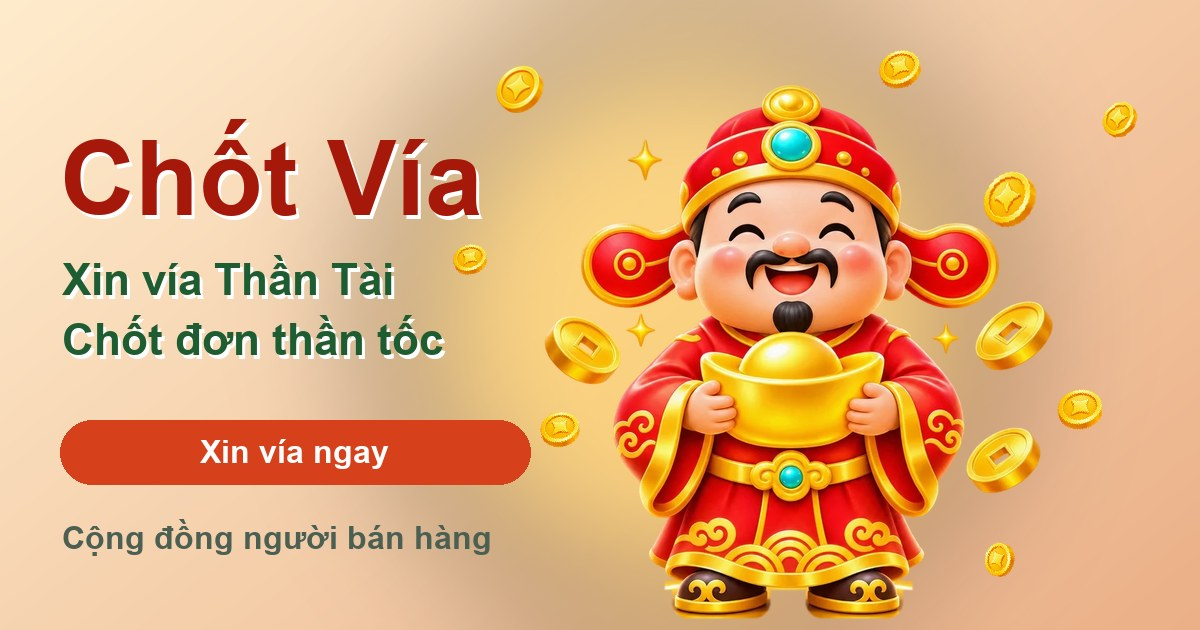
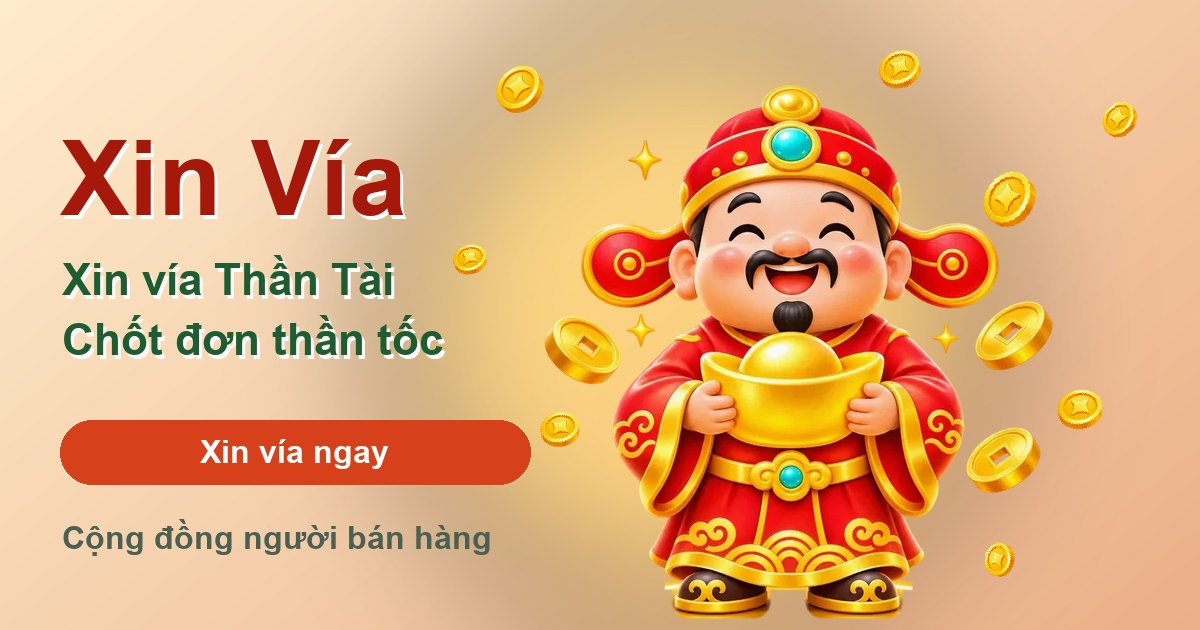
feat(brand): đổi tên hiển thị Chốt Vía thành Xin Vía (giao diện, chữ, thẻ chia sẻ, ảnh xem trước, tài liệu, dữ liệu mẫu và dữ liệu đã có khi deploy); giữ nguyên tên gói, thư mục, tên miền, nội dung SMS

Changed region(s): [[0.0308, 0.181, 0.4008, 0.3619]]

diff --git a/apps/backend/src/database/seed-demo-content.ts b/apps/backend/src/database/seed-demo-content.ts
@@ -25,12 +25,12 @@ const USERS: DemoUser[] = [
   { name: 'Nhà Hàng Sông Xanh', role: 'owner', job: 'Chủ quán', province: 'Cần Thơ', avatar: '/images/av-04.webp' },
   { name: 'Đức Hoàng', role: 'sale', job: 'Sale', province: 'Hà Nội', avatar: '/images/av-07.webp' },
   { name: 'Tiến Nguyễn', role: 'owner', job: 'Chủ cửa hàng', province: 'Đà Nẵng', avatar: '/images/av-10.webp' },
-  { name: 'Chốt Vía', role: null, job: null, province: 'Hà Nội', avatar: '/images/logo-than-tai.webp' },
+  { name: 'Xin Vía', role: null, job: null, province: 'Hà Nội', avatar: '/images/logo-than-tai.webp' },
 ];
 
 const POSTS: DemoPost[] = [
   { author: 'Lan Anh', type: 'story', metric: null, body: 'Chạy KPI cuối năm mà khách cứ hỏi giá, haizzz… Xin vía chốt đơn ạ! 🙏', hashtags: ['kekho'], image: { url: '/images/bai-ke-kho.webp', w: 1000, h: 750 }, pinned: true, hoursAgo: 2.05, reactions: 326, comments: 89, shares: 0 },
-  { author: 'Tuấn Anh', type: 'achievement', metric: 'revenue', body: 'Hôm nay quán cafe đạt 15.8 triệu! Cảm ơn cộng đồng Chốt Vía 🙏', hashtags: ['doanhthu'], image: { url: '/images/bai-khoe-doanh-thu.webp', w: 1000, h: 750 }, pinned: true, hoursAgo: 3.05, reactions: 512, comments: 120, shares: 0 },
+  { author: 'Tuấn Anh', type: 'achievement', metric: 'revenue', body: 'Hôm nay quán cafe đạt 15.8 triệu! Cảm ơn cộng đồng Xin Vía 🙏', hashtags: ['doanhthu'], image: { url: '/images/bai-khoe-doanh-thu.webp', w: 1000, h: 750 }, pinned: true, hoursAgo: 3.05, reactions: 512, comments: 120, shares: 0 },
   { author: 'Đặng Văn Nam', type: 'achievement', metric: 'deal', body: 'Chốt deal 800 triệu cho chuỗi 5 cửa hàng F&B. Xin vía cho tháng sau nhé! 🔥', hashtags: ['khoedeal'], image: { url: '/images/bai-khoe-deal.webp', w: 1000, h: 750 }, pinned: true, hoursAgo: 4.05, reactions: 420, comments: 78, shares: 0 },
   { author: 'Thu Hương', type: 'story', metric: null, body: 'Hàng về nhiều mà khách chưa tới, xin vía đông khách cuối tuần! 💚', hashtags: ['kekho'], image: { url: '/images/hp-dong-cua.webp', w: 1000, h: 750 }, pinned: true, hoursAgo: 5.05, reactions: 298, comments: 65, shares: 0 },
   { author: 'Lan Sale', type: 'story', metric: null, body: 'Khách xem 3 lần, hỏi giá 5 lần, cuối cùng "để em suy nghĩ"… chắc lại mất khách rồi 😭', hashtags: ['kekho'], image: { url: '/images/kk-de-em-suy-nghi.webp', w: 1000, h: 750 }, hoursAgo: 2.4, reactions: 248, comments: 86, shares: 107 },
@@ -38,7 +38,7 @@ const POSTS: DemoPost[] = [
   { author: 'Mr. Đức', type: 'story', metric: null, body: 'Chạy 100 cuộc gọi, chốt được 1 deal…\nThôi cũng vui rồi 😅', hashtags: ['kekho'], image: { url: '/images/kk-chuyen-ban-hang.webp', w: 1000, h: 750 }, hoursAgo: 4.4, reactions: 176, comments: 45, shares: 158 },
   { author: 'Nhà Hàng Sông Xanh', type: 'story', metric: null, body: 'Cuối tuần khách đông quá, cảm ơn cộng đồng\nđã luôn gửi vía ❤', hashtags: ['kekho'], image: { url: '/images/hp-mo-cua.webp', w: 1000, h: 750 }, hoursAgo: 5.4, reactions: 289, comments: 67, shares: 106 },
   { author: 'Lan Anh', type: 'achievement', metric: 'revenue', body: 'Cuối tuần quán đông khách hơn mọi hôm, cảm ơn mọi người đã gửi vía! 🙏', hashtags: ['doanhthu'], image: { url: '/images/bai-khoe-doanh-thu.webp', w: 900, h: 675 }, hoursAgo: 40, reactions: 188, comments: 24, shares: 0 },
-  { author: 'Lan Anh', type: 'achievement', metric: 'milestone', body: 'Quán tròn 1 năm tuổi, cảm ơn cộng đồng Chốt Vía đã đồng hành ☕', hashtags: ['cotmoc'], image: { url: '/images/bia-quan-cafe.webp', w: 1400, h: 788 }, hoursAgo: 90, reactions: 240, comments: 31, shares: 0 },
+  { author: 'Lan Anh', type: 'achievement', metric: 'milestone', body: 'Quán tròn 1 năm tuổi, cảm ơn cộng đồng Xin Vía đã đồng hành ☕', hashtags: ['cotmoc'], image: { url: '/images/bia-quan-cafe.webp', w: 1400, h: 788 }, hoursAgo: 90, reactions: 240, comments: 31, shares: 0 },
   { author: 'Lan Sale', type: 'story', metric: null, body: 'Tuần này gọi 80 khách, 3 người bắt máy, 1 người cúp ngang 😅', hashtags: ['kekho'], image: null, hoursAgo: 72, reactions: 500, comments: 30, shares: 0 },
   { author: 'Lan Sale', type: 'story', metric: null, body: 'Báo giá xong khách im re, hôm sau hỏi lại "còn hàng không em?" 😂', hashtags: ['kekho'], image: null, hoursAgo: 120, reactions: 452, comments: 22, shares: 0 },
   { author: 'Đức Hoàng', type: 'story', metric: null, body: 'Hẹn khách 3 lần, lần nào cũng "để mai anh báo lại" 😭', hashtags: ['kekho'], image: null, hoursAgo: 70, reactions: 560, comments: 18, shares: 0 },
@@ -46,7 +46,7 @@ const POSTS: DemoPost[] = [
   { author: 'Tiến Nguyễn', type: 'story', metric: null, body: 'Nhập hàng nhiều quá, kho đầy mà khách chưa thấy đâu 😮💨', hashtags: ['kekho'], image: { url: '/images/kk-dong-don.webp', w: 1000, h: 750 }, hoursAgo: 140, reactions: 720, comments: 25, shares: 0 },
   { author: 'Thu Hương', type: 'wish_share', metric: null, body: 'Xin vía đông khách cuối tuần cho cả nhà nhé! 🙏', hashtags: ['xinvia'], image: null, hoursAgo: 6, reactions: 210, comments: 18, shares: 4 },
   { author: 'Tiến Nguyễn', type: 'wish_share', metric: null, body: 'Sáng nay xin vía Thần Tài, mong hôm nay chốt đơn thật nhiều ✨', hashtags: ['xinvia'], image: null, hoursAgo: 9, reactions: 164, comments: 11, shares: 2 },
-  { author: 'Chốt Vía', type: 'story', metric: null, body: 'Bạn thấy tháng này bán hàng thế nào?', hashtags: ['binhchon'], image: null, hoursAgo: 30, reactions: 12, comments: 3, shares: 0, poll: ['Bán tốt, quá đỉnh! 🔥', 'Bình thường thôi 😐', 'Khó khăn quá 😟'] },
+  { author: 'Xin Vía', type: 'story', metric: null, body: 'Bạn thấy tháng này bán hàng thế nào?', hashtags: ['binhchon'], image: null, hoursAgo: 30, reactions: 12, comments: 3, shares: 0, poll: ['Bán tốt, quá đỉnh! 🔥', 'Bình thường thôi 😐', 'Khó khăn quá 😟'] },
 ];
 
 const TOPICS = [
@@ -90,7 +90,7 @@ for (const demo of POSTS) {
   }
 }
 
-// Điểm vía mẫu cho vài tài khoản có ảnh đại diện để mục "Cộng đồng Chốt Vía" và tab Cộng đồng có người nổi bật (chỉ đặt khi tài khoản đó chưa có điểm).
+// Điểm vía mẫu cho vài tài khoản có ảnh đại diện để mục "Cộng đồng Xin Vía" và tab Cộng đồng có người nổi bật (chỉ đặt khi tài khoản đó chưa có điểm).
 const SAMPLE_POINTS: [string, number][] = [['Lan Anh', 98], ['Tuấn Anh', 91], ['Thu Hương', 84], ['Đặng Văn Nam', 77], ['Lan Sale', 70], ['Đức Hoàng', 63]];
 for (const [name, points] of SAMPLE_POINTS) {
   const id = ids.get(name);

diff --git a/apps/web-public/src/components/home/home-footer.tsx b/apps/web-public/src/components/home/home-footer.tsx
@@ -47,7 +47,7 @@ function MonitorMark() {
   );
 }
 
-/** Nút "Tải ứng dụng / PWA" (hộp cài đặt của trình duyệt, hoặc hướng dẫn thêm vào màn hình chính khi trình duyệt không có hộp cài như Safari) và khối "Chia sẻ Chốt Vía" với biểu tượng mạng xã hội; dùng ở chân trang máy tính và thẻ cuối trang điện thoại. */
+/** Nút "Tải ứng dụng / PWA" (hộp cài đặt của trình duyệt, hoặc hướng dẫn thêm vào màn hình chính khi trình duyệt không có hộp cài như Safari) và khối "Chia sẻ Xin Vía" với biểu tượng mạng xã hội; dùng ở chân trang máy tính và thẻ cuối trang điện thoại. */
 function InstallAndShare({ social, stacked = false }: { social: readonly { label: string; href: string }[]; stacked?: boolean }) {
   const t = useTranslations('home');
   const shareTo = useShareTo();
@@ -72,7 +72,7 @@ function InstallAndShare({ social, stacked = false }: { social: readonly { label
         <p className="text-sm font-semibold text-ink">{t('shareApp')}</p>
         <div className="flex items-center gap-4">
           {social.map((s) => {
-            // Liên kết mẫu '#': chưa có địa chỉ thật thì bấm là chia sẻ Chốt Vía lên mạng đó (sao chép nội dung + mở cửa sổ chia sẻ).
+            // Liên kết mẫu '#': chưa có địa chỉ thật thì bấm là chia sẻ Xin Vía lên mạng đó (sao chép nội dung + mở cửa sổ chia sẻ).
             if (s.href === '#') return <button key={s.label} type="button" aria-label={s.label} title={s.label} className="transition hover:scale-110 active:scale-95" onClick={() => { const target = shareTarget(s.label); if (target) void shareTo(target, t('shareText')); }}><FooterSocialIcon label={s.label} /></button>;
             return (
               <a key={s.href + s.label} href={s.href} target="_blank" rel="noopener noreferrer" aria-label={s.label} title={s.label} className="transition hover:scale-110 active:scale-95">
@@ -89,7 +89,7 @@ function InstallAndShare({ social, stacked = false }: { social: readonly { label
 }
 
 /**
- * Chân trang của trang chủ theo ảnh thiết kế (iPad ngang và máy tính): logo + khẩu hiệu, hàng liên kết, nút "Tải ứng dụng / PWA", "Chia sẻ Chốt Vía" với biểu tượng mạng xã hội.
+ * Chân trang của trang chủ theo ảnh thiết kế (iPad ngang và máy tính): logo + khẩu hiệu, hàng liên kết, nút "Tải ứng dụng / PWA", "Chia sẻ Xin Vía" với biểu tượng mạng xã hội.
  * Liên kết và mạng xã hội do admin nhập (menu "Liên kết chân trang"); chưa nhập thì không hiện.
  */
 export function HomeFooter() {
@@ -102,12 +102,12 @@ export function HomeFooter() {
   }, [data]);
   return (
     <>
-    {/* Điện thoại: chân trang đầy đủ bị ẩn nên có thẻ riêng ngay cuối trang chủ để cài ứng dụng và chia sẻ Chốt Vía. */}
+    {/* Điện thoại: chân trang đầy đủ bị ẩn nên có thẻ riêng ngay cuối trang chủ để cài ứng dụng và chia sẻ Xin Vía. */}
     <section aria-label={t('installApp')} className="mx-auto w-full px-3 pb-28 md:hidden">
       <div className="flex flex-col items-center gap-3 rounded-3xl bg-linear-to-b from-surface to-primary-soft p-4 shadow-card ring-1 ring-surface">
         <Link href="/" className="flex items-center gap-2" aria-label={tn('home')}>
           <img loading="lazy" decoding="async" src="/images/logo-than-tai.webp" alt="" aria-hidden className="size-12 object-contain" draggable={false} />
-          <span className="font-display text-2xl font-extrabold italic text-primary-strong">Chốt Vía</span>
+          <span className="font-display text-2xl font-extrabold italic text-primary-strong">Xin Vía</span>
         </Link>
         <InstallAndShare social={social} stacked />
         {links.length > 0 ? (
@@ -122,7 +122,7 @@ export function HomeFooter() {
         <Link href="/" className="flex shrink-0 items-center gap-2" aria-label={tn('home')}>
           <img loading="lazy" decoding="async" src="/images/logo-than-tai.webp" alt="" aria-hidden className="size-16 object-contain" draggable={false} />
           <span className="flex flex-col leading-tight">
-            <span className="font-display text-3xl font-extrabold italic text-primary-strong">Chốt Vía</span>
+            <span className="font-display text-3xl font-extrabold italic text-primary-strong">Xin Vía</span>
             <span className="text-[0.8rem] font-bold italic tracking-tight text-ink">{t('tagline')}</span>
           </span>
         </Link>

diff --git a/apps/backend/src/database/seed.ts b/apps/backend/src/database/seed.ts
@@ -131,12 +131,12 @@ await db.insert(challenges).values({
 await db.insert(levels).values([
   { level: 1, name: 'Tân binh', minPoints: 1 }, { level: 2, name: 'Ghé phố', minPoints: 5 }, { level: 3, name: 'Bạn của phố', minPoints: 15 },
   { level: 4, name: 'Gương mặt quen', minPoints: 35 }, { level: 5, name: 'Kết nối cộng đồng', minPoints: 70 }, { level: 6, name: 'Lan tỏa may mắn', minPoints: 120 },
-  { level: 7, name: 'Đại sứ Chốt Vía', minPoints: 200 },
+  { level: 7, name: 'Đại sứ Xin Vía', minPoints: 200 },
 ]).onConflictDoNothing();
 await db.insert(badges).values([
   { code: 'via_dau_tien', name: 'Vía đầu tiên', description: 'Đạt 1 điểm vía.', iconKey: 'clover', conditionType: 'total_points', threshold: 1 },
   { code: 'via_25', name: 'Tích vía', description: 'Đạt 25 điểm vía.', iconKey: 'gold', conditionType: 'total_points', threshold: 25 },
-  { code: 'via_100', name: 'Sao Chốt Vía', description: 'Đạt 100 điểm vía.', iconKey: 'star', conditionType: 'total_points', threshold: 100 },
+  { code: 'via_100', name: 'Sao Xin Vía', description: 'Đạt 100 điểm vía.', iconKey: 'star', conditionType: 'total_points', threshold: 100 },
   { code: 'via_200', name: 'Đại sứ may mắn', description: 'Đạt 200 điểm vía.', iconKey: 'crown', conditionType: 'total_points', threshold: 200 },
   { code: 'xin_via_10', name: 'Ghé Thần Tài', description: 'Xin vía Thần Tài 10 lần.', iconKey: 'sun', conditionType: 'deity_wishes', threshold: 10 },
   { code: 'xin_via_30', name: 'Thân quen Thần Tài', description: 'Xin vía Thần Tài 30 lần.', iconKey: 'sparkles', conditionType: 'deity_wishes', threshold: 30 },

diff --git a/apps/backend/src/database/seed-home.ts b/apps/backend/src/database/seed-home.ts
@@ -1,9 +1,19 @@
-import { count, eq } from 'drizzle-orm';
+import { count, eq, sql } from 'drizzle-orm';
 import type { HomeActionKind, SceneModelKey } from '@chot-via/shared';
 import { createDb } from './database';
 import { appSettings, homeActions, homeFooterLinks, placeCategories, places, sceneTemplates, streetSlots } from './schema';
 
 const { db, close } = createDb();
+
+/** Đổi tên thương hiệu Chốt Vía → Xin Vía trong dữ liệu đã có (bài mẫu, tên tài khoản mẫu, sự kiện, lời chúc…). Chạy mỗi lần deploy, chạy lại không đổi gì thêm. */
+const textColumns = await db.execute(sql`select table_name, column_name from information_schema.columns
+  where table_schema = 'public' and data_type in ('text', 'character varying')
+    and table_name not in ('refresh_tokens', 'auth_identities', 'otp_codes', 'otp_locks', 'audit_logs', 'point_ledger', 'guest_sessions', 'app_settings')`);
+for (const row of textColumns as unknown as { table_name: string; column_name: string }[]) {
+  const t = sql.identifier(row.table_name);
+  const c = sql.identifier(row.column_name);
+  await db.execute(sql`update ${t} set ${c} = replace(replace(replace(${c}, 'Chốt Vía', 'Xin Vía'), 'Chốt vía', 'Xin Vía'), 'CHỐT VÍA', 'XIN VÍA') where ${c} like '%Chốt V%a%' or ${c} like '%CHỐT VÍA%'`);
+}
 
 /** Dữ liệu trang chủ theo thiết kế: file 3D (GLB v2, 3 mức chi tiết), hàng nút hành động, chân trang, các ô cửa hàng trên phố. Chạy lại nhiều lần vẫn an toàn. */
 const SEED_VERSION = 5;

diff --git a/apps/web-public/src/lib/share.ts b/apps/web-public/src/lib/share.ts
@@ -1,4 +1,4 @@
-/** Tên miền công khai của Chốt Vía dùng trong link chia sẻ: biến NEXT_PUBLIC_SITE_URL (lúc build) nếu có, không thì chính tên miền đang mở (nên deploy sang server nào cũng đúng). */
+/** Tên miền công khai của Xin Vía dùng trong link chia sẻ: biến NEXT_PUBLIC_SITE_URL (lúc build) nếu có, không thì chính tên miền đang mở (nên deploy sang server nào cũng đúng). */
 const FALLBACK_SITE_URL = 'https://chotvia.divusoft.com';
 export function siteUrl(): string {
   const env = process.env['NEXT_PUBLIC_SITE_URL'];
@@ -21,7 +21,7 @@ export function shareUrl(target: ShareTarget, text: string): string {
   const link = encodeURIComponent(siteUrl());
   const quote = encodeURIComponent(text);
   switch (target) {
-    case 'facebook': return `https://www.facebook.com/sharer/sharer.php?u=${link}&quote=${quote}&hashtag=${encodeURIComponent('#ChotVia')}`;
+    case 'facebook': return `https://www.facebook.com/sharer/sharer.php?u=${link}&quote=${quote}&hashtag=${encodeURIComponent('#XinVia')}`;
     case 'zalo': return `https://zalo.me/share?u=${link}&t=${quote}`;
     case 'tiktok': return 'https://www.tiktok.com/';
     // Điện thoại mở thẳng ứng dụng Messenger kèm link; máy tính không có đường chia sẻ nên mở messenger.com (link đã được sao chép để dán).

diff --git a/e2e/home-hero.spec.ts b/e2e/home-hero.spec.ts
@@ -30,7 +30,7 @@ test.describe('trang chủ theo thiết kế: hero thành phố 3D, hàng nút, 
 
   test('hero là thành phố 3D ngay khi mở trang: có canvas, không còn nút Ghé phố 3D / Về ảnh phố, có nút điều khiển góc nhìn', async ({ page }) => {
     await page.goto('/', { waitUntil: 'networkidle' });
-    const hero = page.getByRole('region', { name: /Phố Chốt Vía 3D/ });
+    const hero = page.getByRole('region', { name: /Phố Xin Vía 3D/ });
     await expect(hero.locator('canvas')).toBeVisible();
     await expect(page.getByRole('button', { name: /^(Ghé phố 3D|Về ảnh phố)$/ })).toHaveCount(0);
     const controls = hero.getByRole('group', { name: 'Điều khiển góc nhìn phố 3D' });
@@ -41,7 +41,7 @@ test.describe('trang chủ theo thiết kế: hero thành phố 3D, hàng nút, 
 
   test('bấm Thần Tài trong cảnh 3D nổ vía ngay (không hộp thoại)', async ({ page }) => {
     await page.goto('/', { waitUntil: 'networkidle' });
-    const canvas = page.getByRole('region', { name: /Phố Chốt Vía 3D/ }).locator('canvas');
+    const canvas = page.getByRole('region', { name: /Phố Xin Vía 3D/ }).locator('canvas');
     await expect(canvas).toBeVisible();
     await page.waitForTimeout(4000); // chờ ảnh Thần Tài tải vào cảnh
     const box = await canvas.boundingBox();

diff --git a/e2e/guest-flows.spec.ts b/e2e/guest-flows.spec.ts
@@ -6,7 +6,7 @@ test.describe('khách: vào là xin vía được ngay', () => {
     await page.goto('/', { waitUntil: 'networkidle' });
     await expect(page.getByRole('dialog')).toHaveCount(0);
     await expect(page.getByRole('button', { name: /Xin vía hôm nay/ }).first()).toBeVisible();
-    await expect(shown(page, 'Phố Chốt Vía 3D')).toBeVisible();
+    await expect(shown(page, 'Phố Xin Vía 3D')).toBeVisible();
   });
 
   test('xin vía Thần Tài một chạm: bấm là nổ ngay, hiện lời chúc nổi và liên kết sang Phố 3D; không hộp thoại, không bước xác nhận, không đòi đăng nhập', async ({ page }) => {
@@ -60,7 +60,7 @@ test.describe('khách: vào là xin vía được ngay', () => {
     await page.getByRole('tab', { name: 'Sale' }).click();
     await expect(shown(page, /Team Sale|Văn phòng Sale/)).toBeVisible();
     await page.getByRole('tab', { name: 'Cộng đồng' }).click();
-    await expect(shown(page, 'TOP THÀNH VIÊN CHỐT VÍA')).toBeVisible();
+    await expect(shown(page, 'TOP THÀNH VIÊN XIN VÍA')).toBeVisible();
     await expectNoHorizontalScroll(page);
   });
 

diff --git a/apps/web-public/src/components/splash-screen.tsx b/apps/web-public/src/components/splash-screen.tsx
@@ -48,7 +48,7 @@ export function SplashScreen() {
       className={`fixed inset-0 z-100 flex flex-col items-center justify-center gap-5 bg-linear-to-b from-primary-soft via-app to-gold-soft transition-opacity duration-500 ease-out ${fading ? 'pointer-events-none opacity-0' : 'opacity-100'}`}
     >
       <img src="/images/logo-than-tai.webp" alt="" width={160} height={160} className="size-36 animate-float object-contain drop-shadow-lg sm:size-44" fetchPriority="high" />
-      <p className="font-display text-4xl font-extrabold italic text-primary-strong">Chốt Vía</p>
+      <p className="font-display text-4xl font-extrabold italic text-primary-strong">Xin Vía</p>
       <p className="-mt-3 text-sm font-bold italic text-ink">Cộng đồng người bán hàng</p>
       <div className="mt-2 h-2 w-44 overflow-hidden rounded-full bg-surface shadow-card ring-1 ring-primary/20">
         <div className="h-full w-2/5 animate-splash-bar rounded-full btn-glossy" />

diff --git a/apps/web-public/src/components/common/share-buttons.tsx b/apps/web-public/src/components/common/share-buttons.tsx
@@ -35,7 +35,7 @@ export function useShareTo(): (target: ShareTarget, text: string) => Promise<voi
 }
 
 /**
- * Chia sẻ lời chúc kèm link Chốt Vía. Bấm một mạng: sao chép "lời chúc + link" rồi mở cửa sổ chia sẻ của mạng đó (chưa đăng nhập thì mạng tự hiện màn đăng nhập),
+ * Chia sẻ lời chúc kèm link Xin Vía. Bấm một mạng: sao chép "lời chúc + link" rồi mở cửa sổ chia sẻ của mạng đó (chưa đăng nhập thì mạng tự hiện màn đăng nhập),
  * nên nếu mạng không nhận chữ thì người dùng dán được. Điện thoại có thêm nút mở menu chia sẻ của hệ điều hành. Không cộng điểm, không ghi vào cơ sở dữ liệu.
  */
 export interface ShareCardSpec {

diff --git a/apps/web-public/src/components/home/hero.tsx b/apps/web-public/src/components/home/hero.tsx
@@ -35,7 +35,7 @@ function RegionButton({ slot, onOpen, label }: { slot: StreetSlotDto; onOpen: (p
 }
 
 /**
- * Hero Phố Chốt Vía 3D: luôn là thành phố 3D (cảnh WebGL dựng từ hình tách nền của bộ thiết kế): kéo để xoay đủ 360°, nút +/− để phóng to, nút ▲▼ để đi tới/lui, người đi lại.
+ * Hero Phố Xin Vía 3D: luôn là thành phố 3D (cảnh WebGL dựng từ hình tách nền của bộ thiết kế): kéo để xoay đủ 360°, nút +/− để phóng to, nút ▲▼ để đi tới/lui, người đi lại.
  * Thiết bị không hỗ trợ WebGL thì hiện ảnh phố tĩnh (vùng bấm theo %). Nút Xin vía luôn nổi bật nhất.
  */
 export function HomeHero({ home }: { home: HomeDto | undefined }) {

diff --git a/apps/web-public/src/lib/share-card.ts b/apps/web-public/src/lib/share-card.ts
@@ -42,7 +42,7 @@ function qrRects(value: string, size: number, x0: number, y0: number): string {
   return `<rect x="${x0}" y="${y0}" width="${size}" height="${size}" rx="24" fill="#fff" stroke="#0c875c" stroke-width="4"/><path d="${d}" fill="#075c40"/>`;
 }
 
-/** SVG thẻ 1080×1350 đúng bố cục mẫu: khung trắng viền xanh, tên "Chốt Vía", tiêu đề, hai dòng nội dung, mã QR về đúng trang, khẩu hiệu. */
+/** SVG thẻ 1080×1350 đúng bố cục mẫu: khung trắng viền xanh, tên "Xin Vía", tiêu đề, hai dòng nội dung, mã QR về đúng trang, khẩu hiệu. */
 export function buildCardSvg(t: ShareCardText, link: string): string {
   const [l1 = '', l2 = ''] = t.lines;
   const host = link.replace(/^https?:\/\//, '').slice(0, 44);

diff --git a/apps/web-public/src/components/home/hero-title.tsx b/apps/web-public/src/components/home/hero-title.tsx
@@ -3,7 +3,7 @@
 import { useId } from 'react';
 
 /**
- * Tiêu đề hero theo ảnh thiết kế ("Phố Chốt Vía 3D"): uốn cong mềm như cầu vồng, các từ đầu trắng ngả xanh ngọc, hai từ cuối ("Vía 3D") vàng chuyển sắc,
+ * Tiêu đề hero theo ảnh thiết kế ("Phố Xin Vía 3D"): uốn cong mềm như cầu vồng, các từ đầu trắng ngả xanh ngọc, hai từ cuối ("Vía 3D") vàng chuyển sắc,
  * hai lớp viền xanh (đậm ngoài, tươi trong) và bóng đổ phía dưới. Vẽ bằng SVG (chữ nằm trên đường cong) nên sắc nét ở mọi cỡ; màu lấy từ token theme.
  */
 export function HeroTitle({ text, className }: { text: string; className?: string }) {
